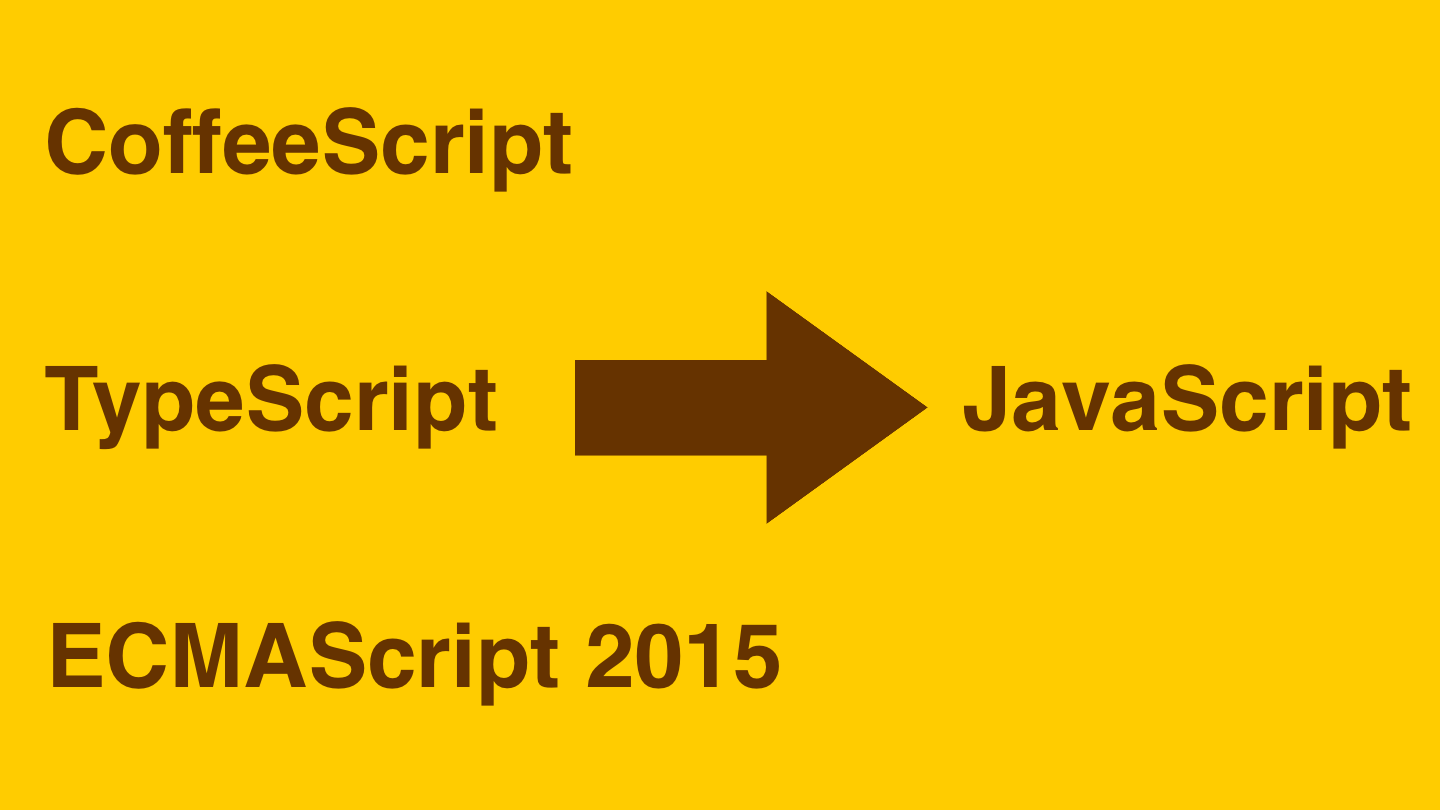
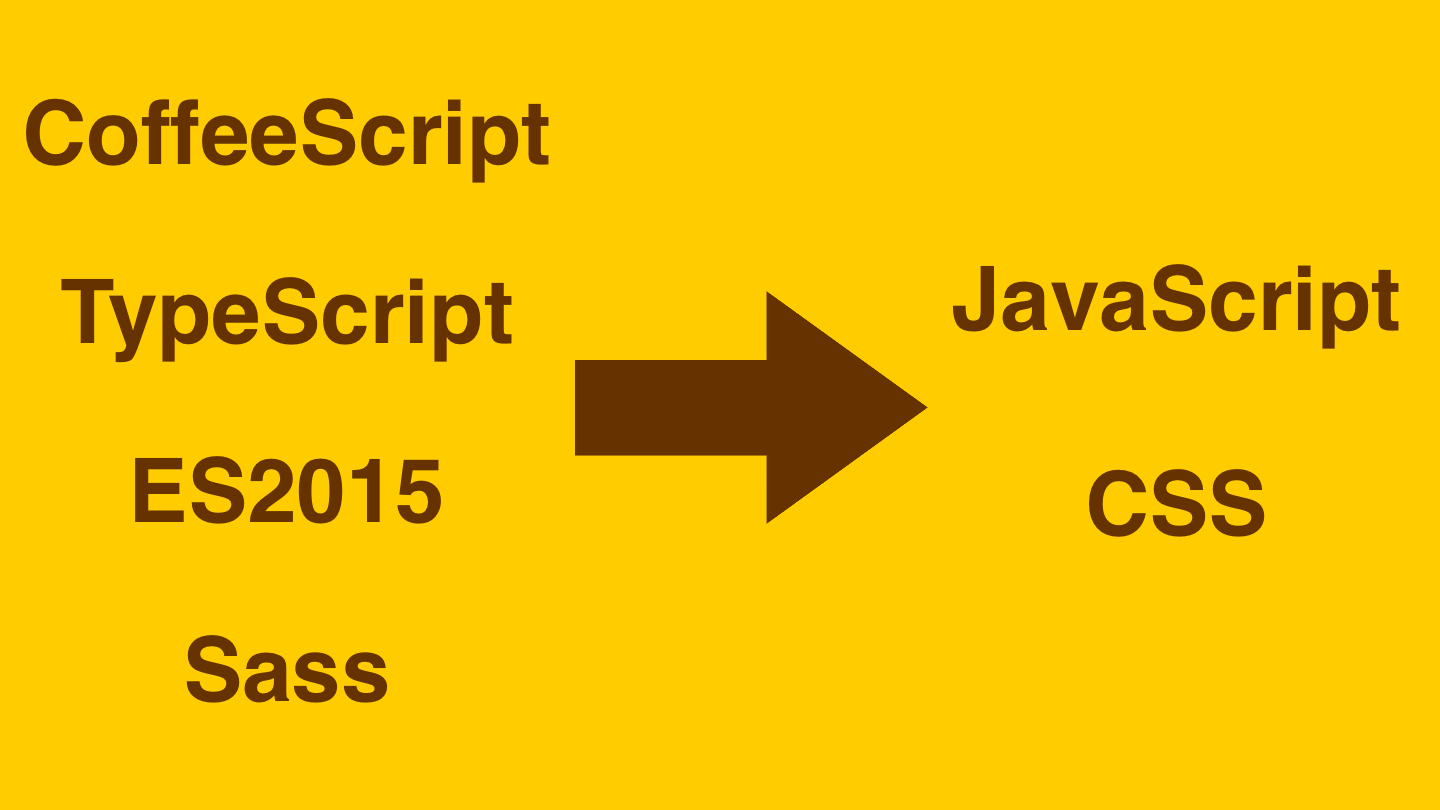
Web Transpiler supports Sass

diff --git a/webtranspiler/index.html b/webtranspiler/index.html
@@ -32,7 +32,7 @@
 			</div>
 			<div>
 				<h2>Supports multiple languages</h2>
-				<p>ECMAScript 2015, TypeScript, and CoffeeScript can be compiled to JavaScript.</p>
+				<p>Web Transpiler supports ECMAScript 2015, TypeScript, CoffeeScript, and Sass compilation.</p>
 			</div>
 		</section>
 	</main>
